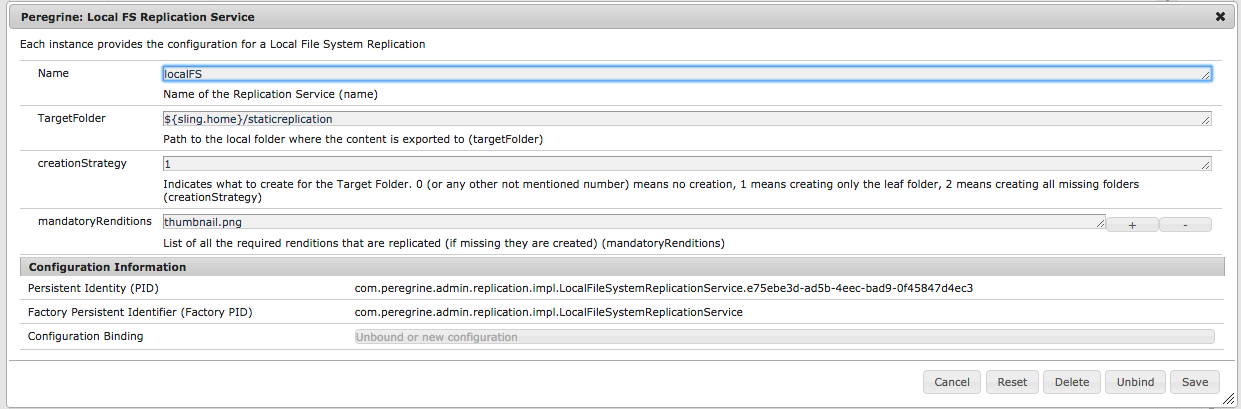
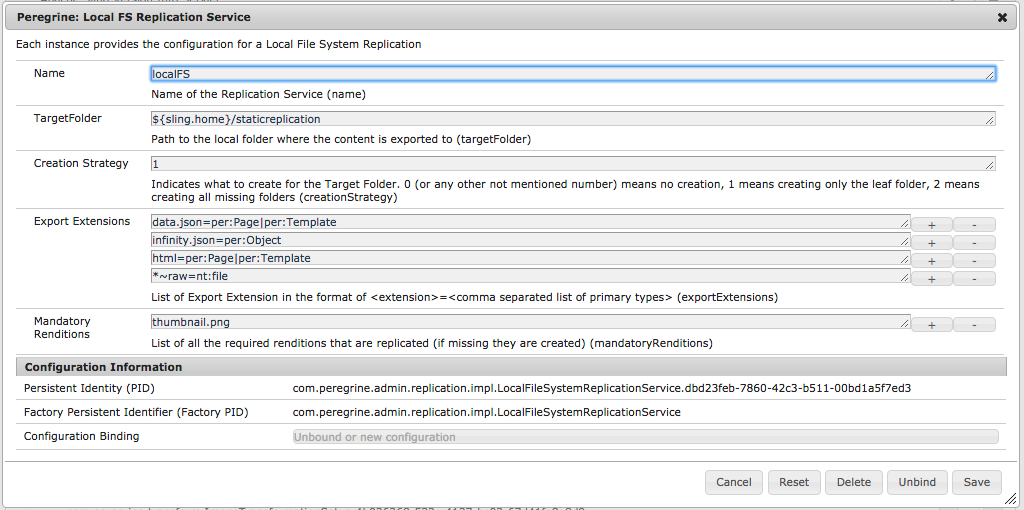
Updated the Distribution documentation due to the changes to the Local File Replication

diff --git a/docs/public/distribution/index.md b/docs/public/distribution/index.md
@@ -128,8 +128,14 @@ To configure this distribution service: **com.peregrine.admin.replication.impl.L
 |:---|:--------|:-------|:---|:------|:----------|
 |Name|name|yes|String|none|Name of the Replication Service|
 |Target Folder|targetFolder|yes|String|none|Absolute Path to the Output Folder. Can use place holders inside ${} which supports Java / Sling properties|
+|Export Extensions|exportExtensions|yes|String|none|List of Extensions to be exported. The format is &lt;extension[~raw]>=&lt;&vert;-split list of primary types that are exported>|
 |Creation Strategy|creationStrategy|yes|int|1|If target folder(s) is missing what is created (0: none, 1: leaf folder, 2: all folders (mkdirs)|
 |Mandatory Renditions|mandatoryRenditions|String|no|Name of the Renditions that are created (if not already done) during the distribution|
+
+**Note**: For the **Export Extensions** the extension (key) can be either a regular extension without a leading dot
+or it can be a ** * ** if the file is exported with the name of the node (for example NT Files). The extension can also
+have the **~raw** suffix which indicates that the content is exported as byte array rather than as text which should
+be done for files.
 
 **Attention**: to learn more about the **Renditions** please go to the Renditions Documentation.
 
